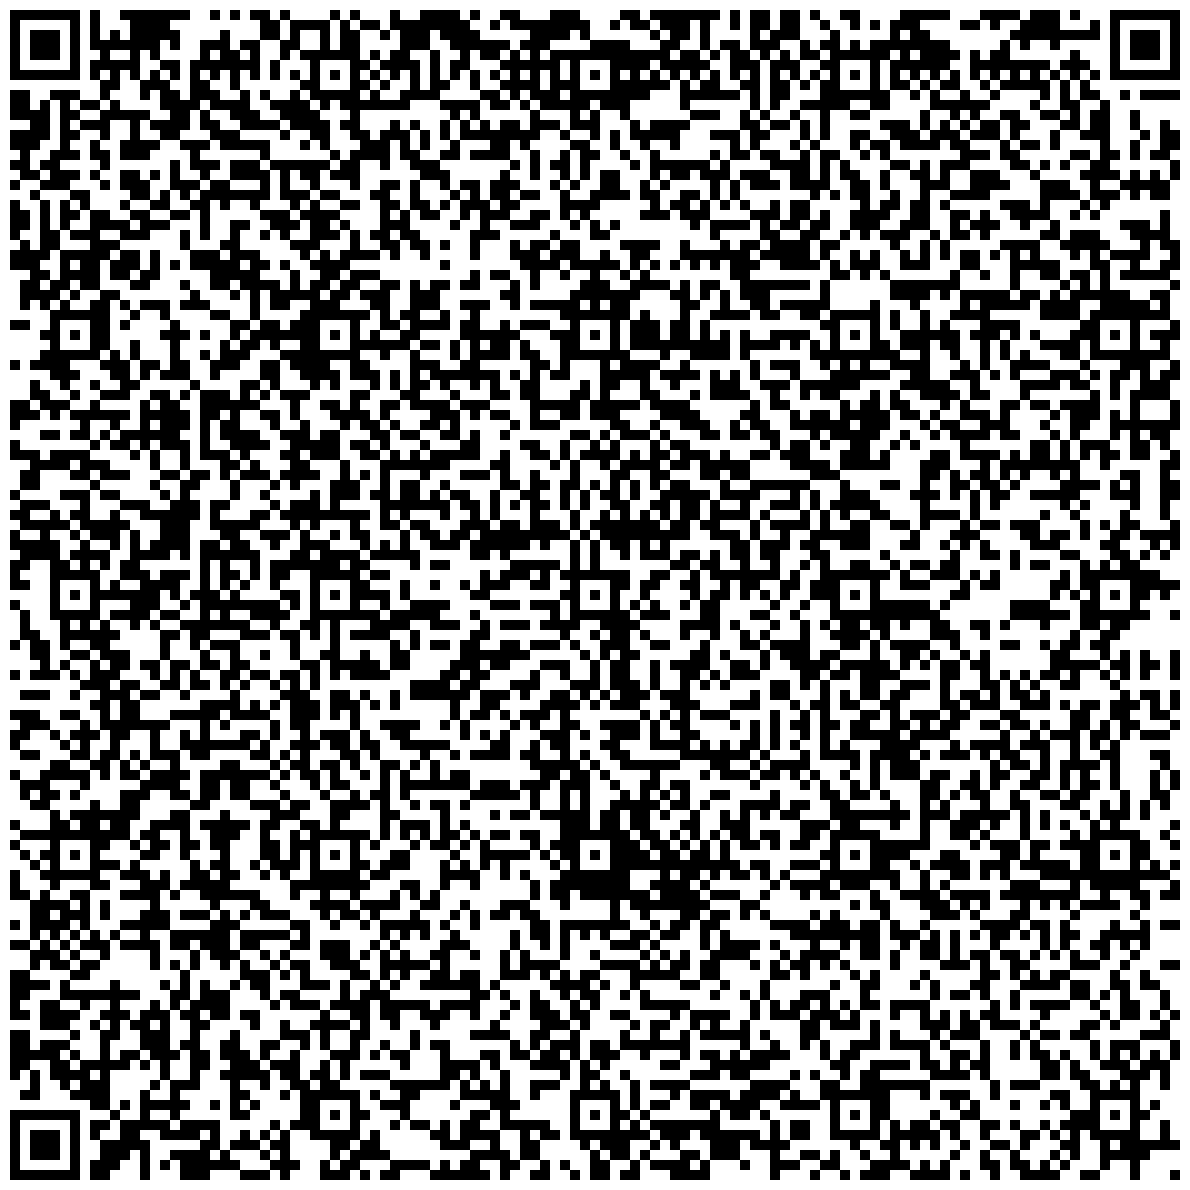
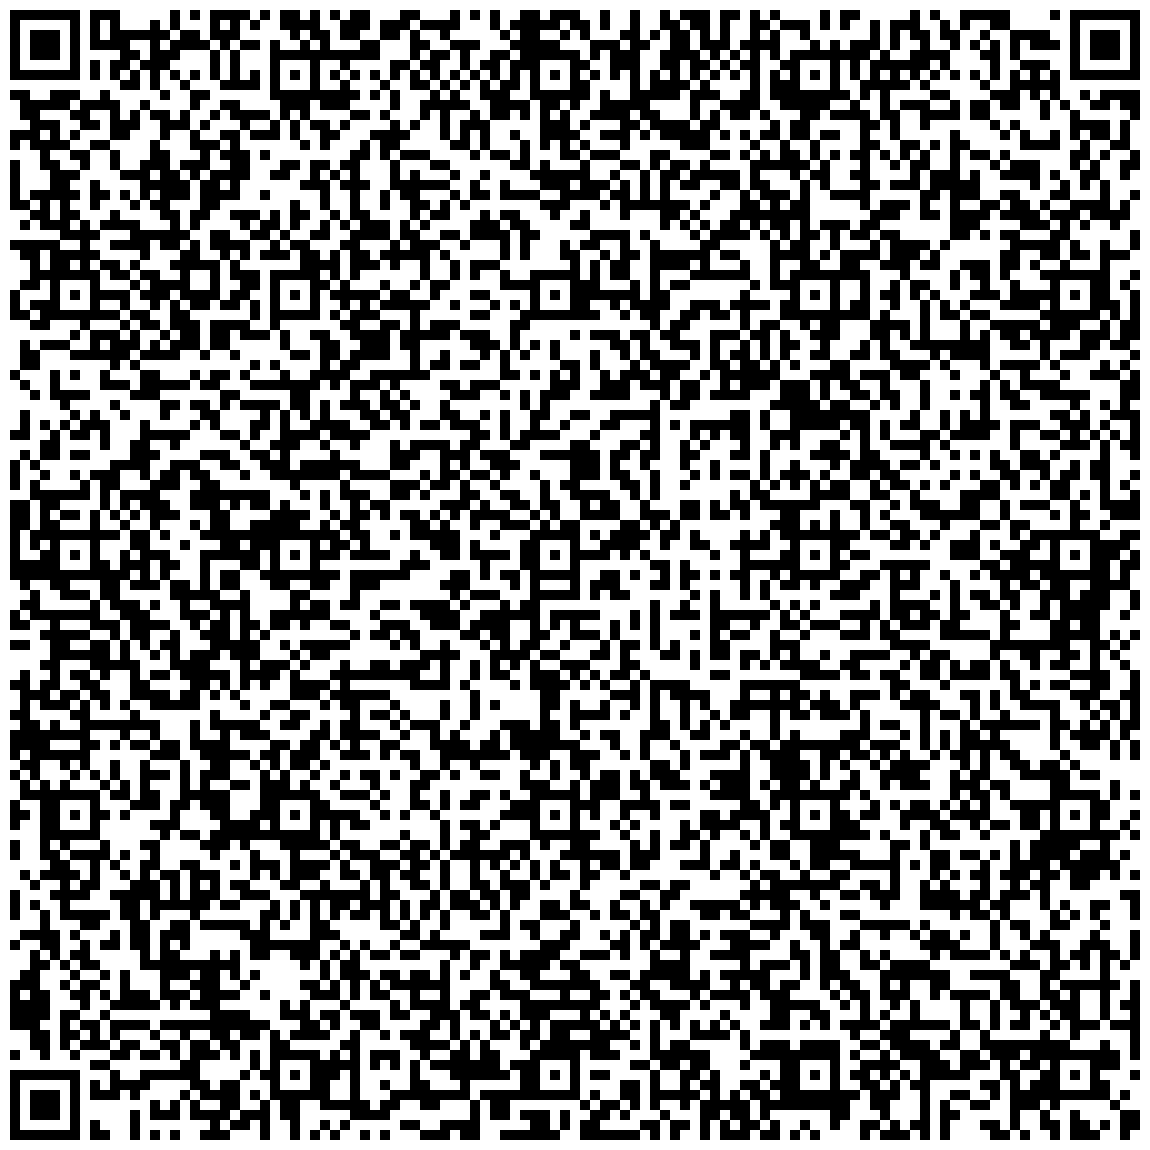
fix scm gen

diff --git a/img-to-scm.py b/img-to-scm.py
@@ -9,7 +9,7 @@ try:
     PX = CANVAS_SIZE // QR_SIZE
     SCALE = list(range(-QR_SIZE // 2, QR_SIZE // 2))
 
-    qr = qrcode.QRCode(border=1, error_correction=qrcode.constants.ERROR_CORRECT_H)
+    qr = qrcode.QRCode(border=1)
     qr.add_data("mse.mehvix.com")
     img = qr.make_image(fit=True)
     img = img.resize((23, 23), Image.NEAREST)
